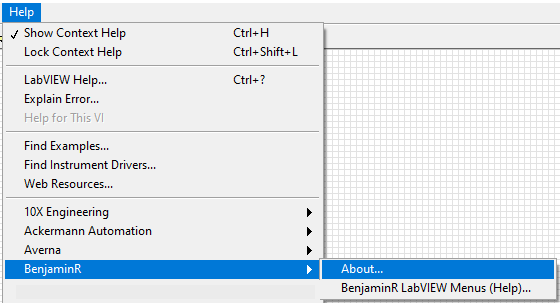
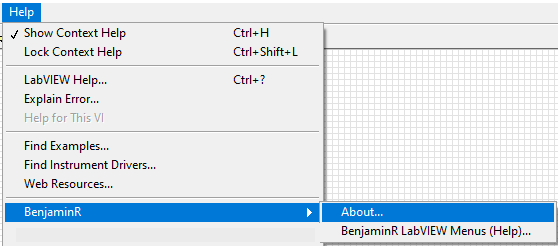
Update help files

Changed region(s): [[0.0, 0.0, 1.0, 1.0]]

diff --git a/src/help/BenjaminR/BenjaminR LabVIEW Menus.htm b/src/help/BenjaminR/BenjaminR LabVIEW Menus.htm
@@ -68,6 +68,7 @@
 			</details>
 			<ul>
 				<li style="padding-left: 10px;"><strong>New VI from Template</strong>&nbsp;&ndash; Creates a new VI from template.</li>
+				<p><img src="img/_BenjaminR_VI_Template.png" alt="" /></p>
 			</ul>
 		<hr />
 		
@@ -79,21 +80,27 @@
 			</details>
 			<ul>
 				<li style="padding-left: 10px;"><strong>Create New VI from Template</strong>&nbsp;&ndash; Creates a new VI from template.</li>
+				<p><img src="img/_BenjaminR_VI_Template.png" alt="" /></p>
 				<li style="padding-left: 10px;"><strong>IDE Tools&nbsp;</strong>&ndash; Submenu containing tools interacting with the LabVIEW IDE.</li>
 				<details open>
 					<summary>IDE Tools Menu (Click to collapse)</summary>
 					<p><img src="img/ideToolMenu.png" alt="" /></p>
 				</details>
 				<li style="padding-left: 10px;"><strong>IDE Tools: Quit and Restart LabVIEW</strong>&nbsp;&ndash; Quits then restart LabVIEW.</li>
+				<p><img src="img/ideToolsRestart.png" alt="" /></p>
 				<li style="padding-left: 10px;"><strong>IDE Tools: Refresh LabVIEW Menus</strong>&nbsp;&ndash; Refreshes the File, Tools, and Help menus.</li>
+				<p><img src="img/ideToolsRefreshMenu.png" alt="" /></p>
 				<li style="padding-left: 10px;"><strong>VI Tools&nbsp;</strong>&ndash; Submenu containing tools interacting with VIs.</li>
 				<details open>
 					<summary>VI Tools Menu (Click to collapse)</summary>
 					<p><img src="img/viToolMenu.png" alt="" /></p>
 				</details>
 				<li style="padding-left: 10px;"><strong>VI Tools: Determine ConPane Pattern</strong>&nbsp;&ndash; Select a Connector Pane pattern in the ring and run the VI to find out the pattern number.</li>
+				<p><img src="img/viToolsConPane.png" alt="" /></p>
 				<li style="padding-left: 10px;"><strong>VI Tools: Save Global</strong>&nbsp;&ndash;Changes the defaults of all controls on the front panel to be the current values and saves the VI.</li>
+				<p><img src="img/viToolsSaveGlobal.png" alt="" /></p>
 				<li style="padding-left: 10px;"><strong>VI Tools: System Error Cluster Replacement</strong>&nbsp;&ndash; Replaces the current error clusters on the front panel with System error cluster.</li>
+				<p><img src="img/viToolsReplaceError.png" alt="" /></p>
 			</ul>
 		<hr />
 		
@@ -105,6 +112,8 @@
 			</details>
 			<ul>
 				<li style="padding-left: 10px;"><strong>About&nbsp;</strong>&ndash; Opens the BenjaminR About dialog.</li>
+				<p><img src="img/about.png" alt="" /></p>
+				<li style="padding-left: 10px;"><strong>LabVIEW Menus (Help)&nbsp;</strong>&ndash; Opens the BenjaminR LabVIEW Menus help in the default browser.</li>
 			</ul>
 		<hr />
 		

diff --git a/README.md b/README.md
@@ -37,77 +37,68 @@ BenjaminR LabVIEW Menu VIs into the LabVIEW Menus (File, Tools, and Help).
 - Use VIPM to install it on your LabVIEW version (2020+).
 		
 ## File Menu
-<p>Select File &gt;&gt; BenjaminR &gt;&gt; &lsquo;Item&rsquo;. File menu items are described below.</p>
+<p>Select File &gt;&gt; BenjaminR &gt;&gt; &lsquo;Tool&rsquo;. Tool menu items are described below.</p>
 <details open>
-  <summary>File Menu (Click to collapse)</summary>
-  <p><img src="src/help/BenjaminR/img/fileMenu.png" alt="" /></p>
+	<summary>File Menu (Click to collapse)</summary>
+	<p><img src="img/fileMenu.png" alt="" /></p>
 </details>
 <ul>
-  <li style="padding-left: 10px;">
-	<p><strong>New VI from Template</strong>&nbsp;&ndash; Creates a new VI from template.</p>
-	<p><img src="src/help/BenjaminR/img/_BenjaminR_VI_Template.png" alt="" /></p>
-  </li>
+	<li style="padding-left: 10px;"><strong>New VI from Template</strong>&nbsp;&ndash; Creates a new VI from template.</li>
+	<p><img src="img/_BenjaminR_VI_Template.png" alt="" /></p>
 </ul>
 
 ## Tools Menu
-<p>Select Tools &gt;&gt; BenjaminR &gt;&gt; &lsquo;Item&rsquo;. Tools menu items are described below</p>
+<p>Select Tools &gt;&gt; BenjaminR &gt;&gt; &lsquo;Tool&rsquo;. Tool menu items are described below</p>
 <details open>
-  <summary>Tools Menu (Click to collapse)</summary>
-  <p><img src="src/help/BenjaminR/img/toolsMenu.png" alt="" /></p>
+	<summary>Tools Menu (Click to collapse)</summary>
+	<p><img src="img/toolsMenu.png" alt="" /></p>
 </details>
 <ul>
-	<li style="padding-left: 10px;">
-		<p><strong>Create New VI from Template</strong>&nbsp;&ndash; Creates a new VI from template.</p>
-		<p><img src="src/help/BenjaminR/img/_BenjaminR_VI_Template.png" alt="" /></p>
-	</li>
-	<li style="padding-left: 10px;">
-		<p><strong>IDE Tools&nbsp;</strong>&ndash; Submenu containing tools interacting with the LabVIEW IDE.</p>
-	</li>
-  <details open>
-    <summary>IDE Tools Menu (Click to collapse)</summary>
-    <p><img src="src/help/BenjaminR/img/ideToolMenu.png" alt="" /></p>
-  </details>
-	<li style="padding-left: 10px;">
-		<p><strong>IDE Tools: Quit and Restart LabVIEW</strong>&nbsp;&ndash; Quits then restart LabVIEW.</p>
-		<p><img src="src/help/BenjaminR/img/ideToolsRestart.png" alt=""></p>
-	</li>
-	<li style="padding-left: 10px;">
-		<p><strong>IDE Tools: Refresh LabVIEW Menus</strong>&nbsp;&ndash; Refreshes the File, Tools, and Help menus.<p>
-		<p><img src="src/help/BenjaminR/img/ideToolsRefreshMenu.png" alt=""></p>
-	</li>
-	<li style="padding-left: 10px;">
-		<p><strong>VI Tools&nbsp;</strong>&ndash; Submenu containing tools interacting with VIs.
-		
-	</li>
+	<li style="padding-left: 10px;"><strong>Create New VI from Template</strong>&nbsp;&ndash; Creates a new VI from template.</li>
+	<p><img src="img/_BenjaminR_VI_Template.png" alt="" /></p>
+	<li style="padding-left: 10px;"><strong>IDE Tools&nbsp;</strong>&ndash; Submenu containing tools interacting with the LabVIEW IDE.</li>
+	<details open>
+		<summary>IDE Tools Menu (Click to collapse)</summary>
+		<p><img src="img/ideToolMenu.png" alt="" /></p>
+	</details>
+	<li style="padding-left: 10px;"><strong>IDE Tools: Quit and Restart LabVIEW</strong>&nbsp;&ndash; Quits then restart LabVIEW.</li>
+	<p><img src="img/ideToolsRestart.png" alt="" /></p>
+	<li style="padding-left: 10px;"><strong>IDE Tools: Refresh LabVIEW Menus</strong>&nbsp;&ndash; Refreshes the File, Tools, and Help menus.</li>
+	<p><img src="img/ideToolsRefreshMenu.png" alt="" /></p>
+	<li style="padding-left: 10px;"><strong>VI Tools&nbsp;</strong>&ndash; Submenu containing tools interacting with VIs.</li>
 	<details open>
 		<summary>VI Tools Menu (Click to collapse)</summary>
-		<p><img src="src/help/BenjaminR/img/viToolMenu.png" alt="" /></p>
+		<p><img src="img/viToolMenu.png" alt="" /></p>
 	</details>
-	<li style="padding-left: 10px;">
-		<p><strong>VI Tools: Determine ConPane Pattern</strong>&nbsp;&ndash; Select a Connector Pane pattern in the ring and run the VI to find out the pattern number.</p>
-		<p><img src="src/help/BenjaminR/img/viToolsConPane.png" alt=""></p>
-	</li>
-	<li style="padding-left: 10px;">
-		<p><strong>VI Tools: Save Global</strong>&nbsp;&ndash;Changes the defaults of all controls on the front panel to be the current values and saves the VI.</p>
-		<p><img src="src/help/BenjaminR/img/viToolsSaveGlobal.png" alt=""></p>
-	</li>
-	<li style="padding-left: 10px;">
-		<p><strong>VI Tools: System Error Cluster Replacement</strong>&nbsp;&ndash; Replaces the current error clusters on the front panel with System error cluster.</p>
-		<p><img src="src/help/BenjaminR/img/viToolsReplaceError.png" alt=""></p>
-	</li>
+	<li style="padding-left: 10px;"><strong>VI Tools: Determine ConPane Pattern</strong>&nbsp;&ndash; Select a Connector Pane pattern in the ring and run the VI to find out the pattern number.</li>
+	<p><img src="img/viToolsConPane.png" alt="" /></p>
+	<li style="padding-left: 10px;"><strong>VI Tools: Save Global</strong>&nbsp;&ndash;Changes the defaults of all controls on the front panel to be the current values and saves the VI.</li>
+	<p><img src="img/viToolsSaveGlobal.png" alt="" /></p>
+	<li style="padding-left: 10px;"><strong>VI Tools: System Error Cluster Replacement</strong>&nbsp;&ndash; Replaces the current error clusters on the front panel with System error cluster.</li>
+	<p><img src="img/viToolsReplaceError.png" alt="" /></p>
 </ul>
 
 ## Help Menu
-<p>Select Help &gt;&gt; BenjaminR &gt;&gt; &lsquo;Item. Help menu items are described below.</p>
+<h3 id="help-menu">Help Menu</h3>
+<p>Select Help &gt;&gt; BenjaminR &gt;&gt; &lsquo;Tool. Tool menu items are described below.</p>
 <details open>
-  <summary>Help Menu (Click to collapse)</summary>
-  <p><img src="src/help/BenjaminR/img/helpMenu.png" alt="" /></p>
+	<summary>Help Menu (Click to collapse)</summary>
+	<p><img src="img/helpMenu.png" alt="" /></p>
 </details>
 <ul>
-  <li style="padding-left: 10px;">
-	<p><strong>About&nbsp;</strong>&ndash; Opens the BenjaminR About dialog.</p>
-	<p><img src="src/help/BenjaminR/img/about.png" alt=""></p>
-	</li>
+	<li style="padding-left: 10px;"><strong>About&nbsp;</strong>&ndash; Opens the BenjaminR About dialog.</li>
+	<p><img src="img/about.png" alt="" /></p>
+	<li style="padding-left: 10px;"><strong>LabVIEW Menus (Help)&nbsp;</strong>&ndash; Opens the BenjaminR LabVIEW Menus help in the default browser.</li>
+</ul>
+<hr />
+
+<h3 id="other-information">Other Information</h3>
+<h4>Package File Installation Locations</h4>
+<p>Code installation locations are relative to the LabVIEW directory. Files are stored in the following locations:</p>
+<ul>
+	<li style="padding-left: 10px;"><strong>File menu code&nbsp;</strong>&ndash; \wizard\BenjaminR</li>
+	<li style="padding-left: 10px;"><strong>Tools menu code&nbsp;</strong>&ndash; \project\BenjaminR</li>
+	<li style="padding-left: 10px;"><strong>Help menu code&nbsp;</strong>&ndash; \help\BenjaminR</li>
 </ul>
 		
 ## Other Information
